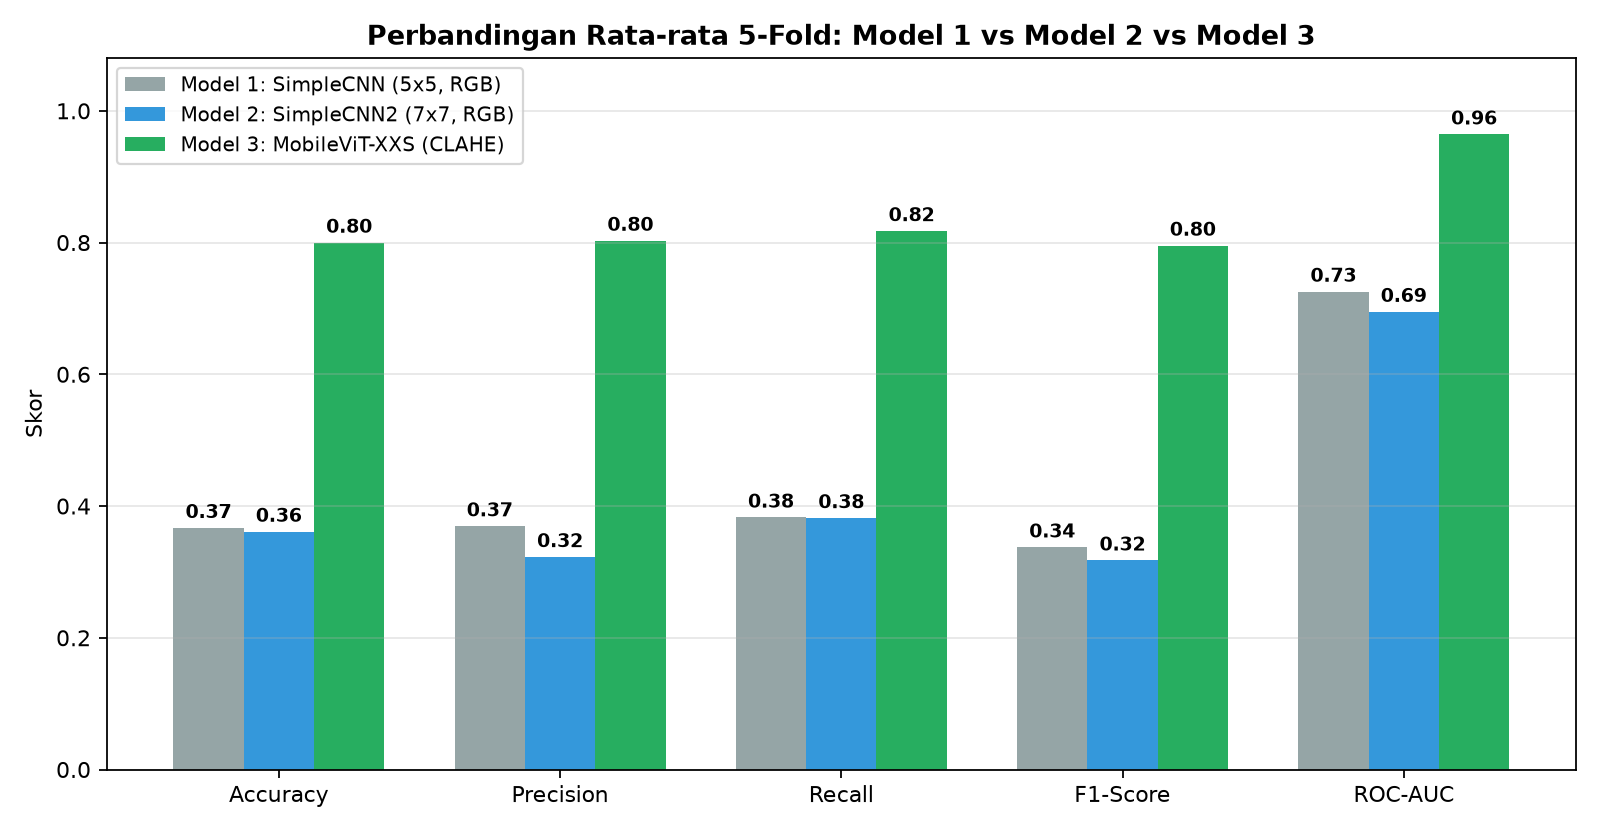
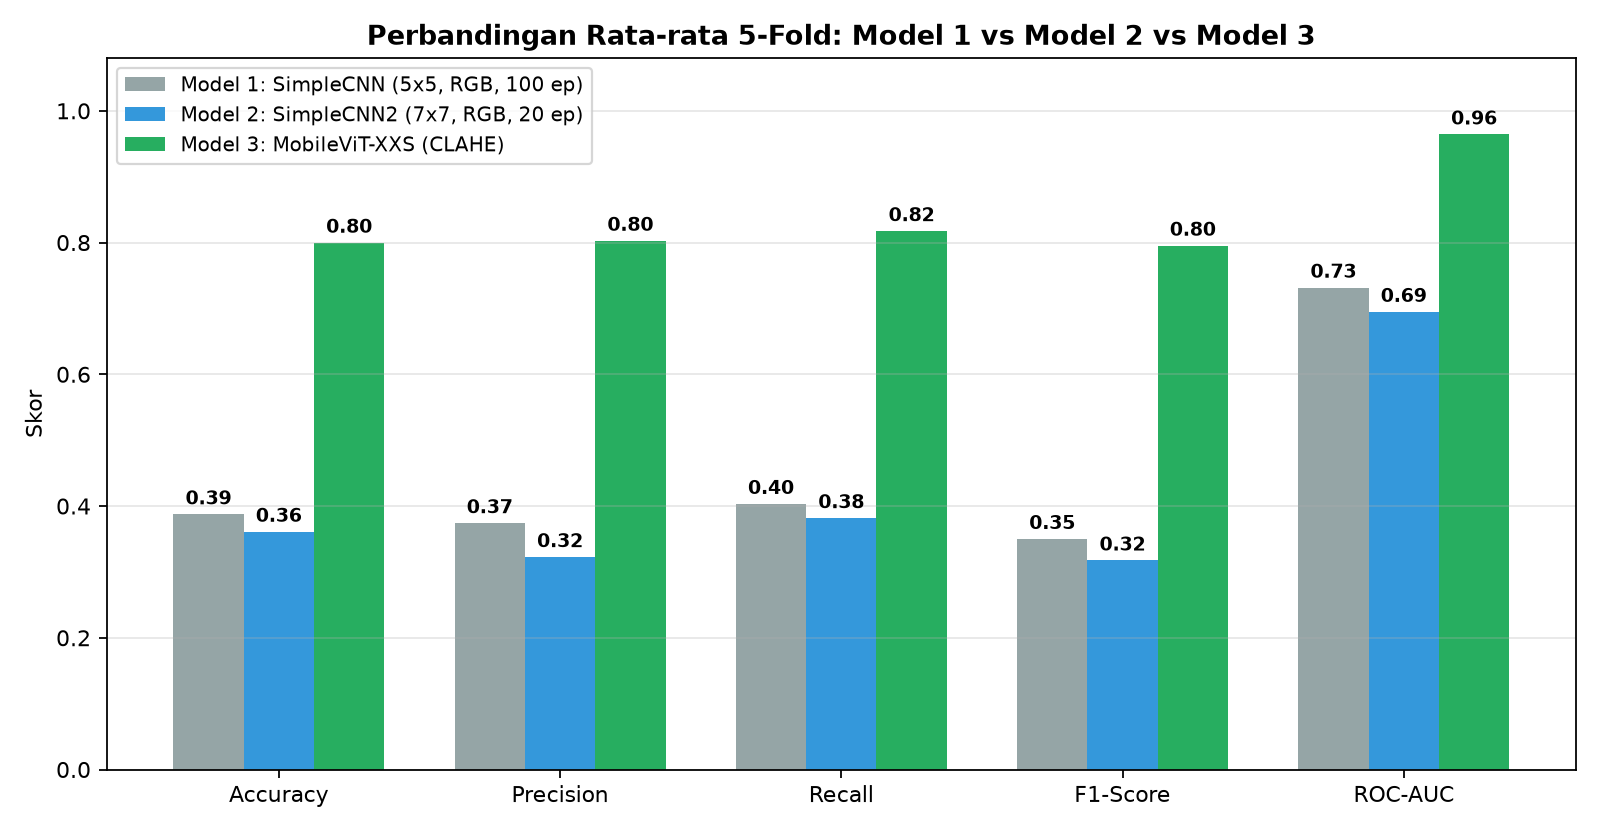
Add complete 100-epoch CNN1 results, updated charts, and README

diff --git a/README.md b/README.md
@@ -28,7 +28,7 @@ Penelitian ini menggunakan [**Mpox Skin Lesion Dataset Version 2.0 (MSLD v2.0)**
 
 | Model | File | Arsitektur & Preprocessing | Optimizer & Epoch |
 | :--- | :--- | :--- | :--- |
-| **Model 1 (`cnn1`)** | `Models/CNN.py` | `SimpleCNN`: 2 blok `Conv(5×5) + ReLU + MaxPool(3×3)` → `Linear`, input `100×100` (`RGB`) | `Adam` (`lr=1e-3`), `NLLLoss`, 20/100 ep |
+| **Model 1 (`cnn1`)** | `Models/CNN.py` | `SimpleCNN`: 2 blok `Conv(5×5) + ReLU + MaxPool(3×3)` → `Linear`, input `100×100` (`RGB`) | `Adam` (`lr=1e-3`), `NLLLoss`, 100 ep |
 | **Model 2 (`cnn2`)** | `Models/CNN2.py` | `SimpleCNN2`: 2 blok `Conv(7×7) + ReLU + MaxPool(3×3)` → `Linear`, input `100×100` (`RGB`) | `Adam` (`lr=1e-3`), `NLLLoss`, 20 ep |
 | **Model 3 (`mobilevit_xxs`)** | `Models/Model3.py` | `MobileViT-XXS` *pretrained* (Hybrid CNN + Transformer) + `CLAHE (LAB)` + *Aug on-the-fly + Dropout (0.2/0.1) + Mixup*, input `224×224` | `AdamW` (`lr=1e-4`), `CosineAnnealingLR`, 10 ep, `Flip TTA` |
 
@@ -77,8 +77,9 @@ mpox-classification/
 │   ├── getData.py             # Dataset loader 6 kelas, 5-fold, RGB/Gray/CLAHE/Mask
 │   └── metrics.py             # Perhitungan metrik & visualisasi grafik
 ├── results/
-│   ├── cnn2_rgb_100/          # Hasil 5-fold Model 2
-│   ├── mobilevit_xxs_clahe_224/ # Hasil 5-fold Model 3
+│   ├── cnn1_rgb_100/          # Hasil 5-fold Model 1 (100 epoch)
+│   ├── cnn2_rgb_100/          # Hasil 5-fold Model 2 (20 epoch)
+│   ├── mobilevit_xxs_clahe_224/ # Hasil 5-fold Model 3 (10 epoch)
 │   └── summary/               # Grafik perbandingan untuk laporan & PPT
 ├── cek_data.py                # Verifikasi unduhan & jumlah data Fold 1
 ├── cek_spesifikasi.py         # Verifikasi PyTorch, GPU CUDA, dan library
@@ -96,7 +97,7 @@ mpox-classification/
 
 | Model | Accuracy | Precision | Recall | F1-Score | ROC-AUC |
 | :--- | :---: | :---: | :---: | :---: | :---: |
-| **Model 1 (`SimpleCNN`)** | `0.3668 ± 0.0356` | `0.3694 ± 0.0586` | `0.3826 ± 0.0589` | `0.3373 ± 0.0326` | `0.7255 ± 0.0163` |
+| **Model 1 (`SimpleCNN`)** | `0.3876 ± 0.0727` | `0.3741 ± 0.0391` | `0.4033 ± 0.0182` | `0.3501 ± 0.0341` | `0.7316 ± 0.0185` |
 | **Model 2 (`SimpleCNN2`)** | `0.3611 ± 0.0791` | `0.3226 ± 0.0648` | `0.3818 ± 0.0526` | `0.3175 ± 0.0688` | `0.6949 ± 0.0319` |
 | **Model 3 (`MobileViT-XXS + CLAHE`)** | **`0.7999 ± 0.0711`** | **`0.8028 ± 0.0983`** | **`0.8175 ± 0.0426`** | **`0.7954 ± 0.0762`** | **`0.9643 ± 0.0201`** |
 
@@ -106,17 +107,18 @@ mpox-classification/
 
 ![Evaluasi Per Fold dan Recall Per Kelas](results/summary/3_per_fold_dan_recall_kelas.png)
 
-| Fold | Model 2 Accuracy | Model 2 ROC-AUC | Model 3 Accuracy | Model 3 F1-Score | Model 3 ROC-AUC |
-| :---: | :---: | :---: | :---: | :---: | :---: |
-| **Fold 1** | 0.4324 | 0.7224 | 0.7973 | 0.8013 | 0.9501 |
-| **Fold 2** | 0.2561 | 0.6540 | 0.7073 | 0.6842 | 0.9460 |
-| **Fold 3** | 0.2969 | 0.6650 | 0.8125 | 0.8059 | 0.9541 |
-| **Fold 4** | 0.4074 | 0.7155 | 0.7778 | 0.7871 | 0.9803 |
-| **Fold 5** | 0.4127 | 0.7176 | **0.9048** | **0.8985** | **0.9910** |
+| Fold | Model 1 (`SimpleCNN`) Acc \| AUC | Model 2 (`SimpleCNN2`) Acc \| AUC | Model 3 (`MobileViT-XXS`) Acc \| F1 \| ROC-AUC |
+| :---: | :---: | :---: | :---: |
+| **Fold 1** | 0.4459 \| 0.7493 | 0.4324 \| 0.7224 | 0.7973 \| 0.8013 \| 0.9501 |
+| **Fold 2** | 0.4756 \| 0.7048 | 0.2561 \| 0.6540 | 0.7073 \| 0.6842 \| 0.9460 |
+| **Fold 3** | 0.2969 \| 0.7471 | 0.2969 \| 0.6650 | 0.8125 \| 0.8059 \| 0.9541 |
+| **Fold 4** | 0.3704 \| 0.7349 | 0.4074 \| 0.7155 | 0.7778 \| 0.7871 \| 0.9803 |
+| **Fold 5** | 0.3492 \| 0.7221 | 0.4127 \| 0.7176 | **0.9048 \| 0.8985 \| 0.9910** |
 
-### Visualisasi Confusion Matrix & Kurva Loss (Model 2 & Model 3)
+### Visualisasi Confusion Matrix & Kurva Loss (Model 1, Model 2, & Model 3)
 
 | Model | Confusion Matrix Gabungan (5-Fold) | Contoh Kurva Loss (Fold 5) |
 | :--- | :---: | :---: |
+| **Model 1 (`SimpleCNN`)** | ![CM Gabungan Model 1](results/cnn1_rgb_100/cm_gabungan.png) | ![Loss Fold 5 Model 1](results/cnn1_rgb_100/fold5_training.png) |
 | **Model 2 (`SimpleCNN2`)** | ![CM Gabungan Model 2](results/cnn2_rgb_100/cm_gabungan.png) | ![Loss Fold 5 Model 2](results/cnn2_rgb_100/fold5_training.png) |
 | **Model 3 (`MobileViT-XXS`)** | ![CM Gabungan Model 3](results/mobilevit_xxs_clahe_224/cm_gabungan.png) | ![Loss Fold 5 Model 3](results/mobilevit_xxs_clahe_224/fold5_training.png) |
